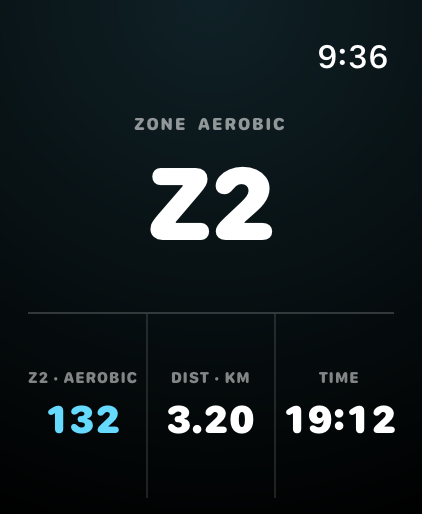
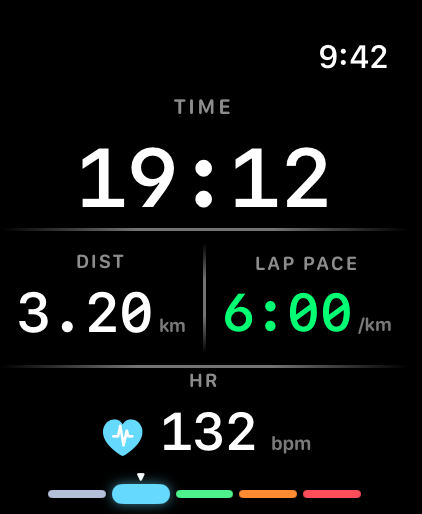
Show Centered 4 with heart rate in the bottom field

diff --git a/app/(en)/guides/apple-watch-heart-rate-zones/page.tsx b/app/(en)/guides/apple-watch-heart-rate-zones/page.tsx
@@ -34,12 +34,12 @@ export default function HeartRateZonesGuide() {
       <p>On the iPhone, the expanded Heart Rate chart in Fitness breaks down the estimated time in each zone. Read the duration beside <strong>Zone 2</strong>. An average heart rate can hide the difference between a steady run and a session with quick repeats and slow recoveries.</p>
       <p><a href="https://support.apple.com/en-mide/guide/watch/apd897dccddf/watchos">Apple’s guide to viewing and editing heart rate zones</a></p>
       <h2>What if I record with RunToMax?</h2>
-      <p>RunToMax has its own workout screen. When customizing the fields for a run, choose <strong>HR Zone</strong> to see the zone on your wrist. If you also want the number in beats per minute, choose <strong>Heart Rate</strong> for a second field. <Link href="/guides/apple-watch-running-pace/">See how to change a field on your RunToMax watch screen</Link>.</p>
+      <p>In RunToMax Pro, choose the <strong>Centered 4</strong> watch layout and set the bottom field to <strong>Heart Rate</strong>. Your pulse appears above a five-segment bar. Read the marker from left to right to see which zone you’re in. <Link href="/guides/apple-watch-running-pace/">See how to change a field on your RunToMax watch screen</Link>.</p>
       <figure className="mx-auto my-8 w-full max-w-72">
         <Image src="/guides/runtomax-watch-heart-rate-zone.png"
-          alt="RunToMax watch screen with Z2 in the center and a heart rate of 132 below."
+          alt="RunToMax Centered 4 with time at the top, distance and lap pace in the middle, and 132 bpm above the highlighted second zone at the bottom."
           width={422} height={514} className="h-auto w-full rounded-2xl" />
-        <figcaption className="mt-3 text-sm leading-relaxed">In this example, 132 bpm puts the runner in Zone 2. RunToMax watch layout shown in the simulator with sample data.</figcaption>
+        <figcaption className="mt-3 text-sm leading-relaxed">The white marker above the second segment means Zone 2. This Centered 4 simulator example shows a heart rate of 132 bpm.</figcaption>
       </figure>
       <GuideDetails guide={guide} />
     </PageShell>

diff --git a/docs/public-release-facts.md b/docs/public-release-facts.md
@@ -147,4 +147,4 @@ Verified against RunToMax 1.4 build 63, submission tag `v1.4-b63-submission`. Th
 
 The US App Store lookup returned version 1.4.2, released November 23. In the corresponding submission tag `v1.4.2-b66-submission` (e777f6d0), `runtomax/Model/ButtonMapping.swift` and the watch’s `Model/UserPreferences.swift` expose the HR Zone field. The watch’s `Views/MetricValue.swift` renders that field from the live heart rate, separately from the Heart Rate field in bpm. Apple Workout settings and Fitness steps were checked against Apple’s user guide. These checks used release source and documentation. No physical run was performed.
 
-The guide image is a watchOS simulator capture of the unmodified 1.4.2 shared HR Zone layout. A temporary preview supplied example data (132 bpm, Z2 for a runner with a maximum of 200 bpm). It illustrates the RunToMax section.
+The guide image is a watchOS simulator capture of the 1.4.2 shared Centered 4 layout (`Centered4LayoutShared`) with Heart Rate in the bottom field. A temporary preview supplied example data (132 bpm, Z2 for a runner with a maximum of 200 bpm). It illustrates the RunToMax section.
